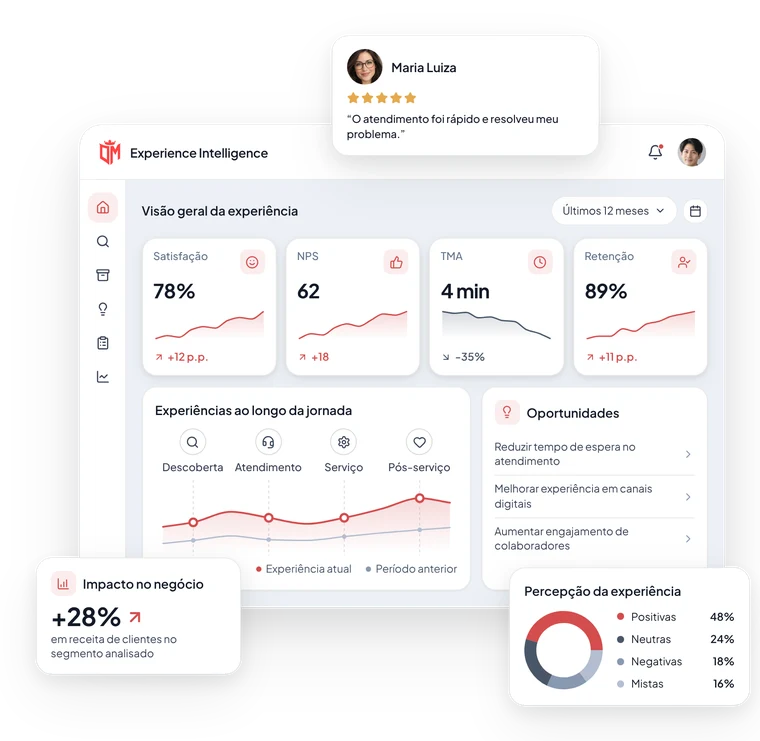
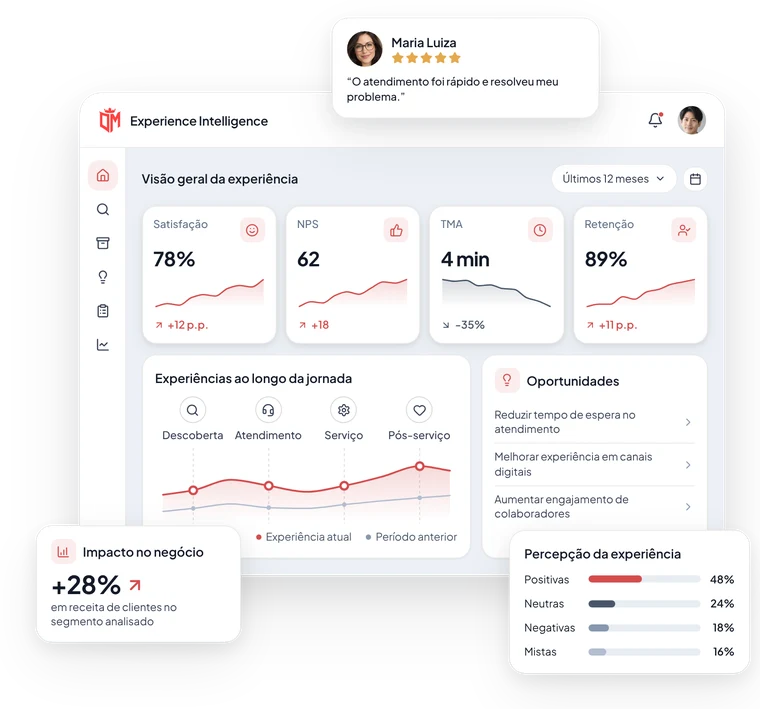
Página do produto: ajustes do hero (painel animado, menu lateral no celular, imagem estática no tablet e celular, Percepção da experiência em barras) (#33)
Claude-Session: https://claude.ai/code/session_01XRPixHnGB2MQpUnvzRpAUm

diff --git a/public/experience-intelligence/estilo.css b/public/experience-intelligence/estilo.css
@@ -61,20 +61,35 @@ a { color: inherit; }
 }
 .nav { display: none; }
 .topo-acoes { display: flex; align-items: center; gap: 12px; }
+/* Celular: Contato fica dentro do menu lateral */
+@media (max-width: 639px) {
+  .topo .btn-contato { display: none; }
+}
 .menu-btn { width: 44px; height: 44px; border: 1px solid var(--border-strong); border-radius: var(--radius); background: var(--card); display: inline-flex; flex-direction: column; align-items: center; justify-content: center; gap: 4px; cursor: pointer; }
 .menu-btn span { width: 18px; height: 2px; background: var(--foreground); border-radius: 2px; }
 
-.nav.aberto {
-  display: flex; flex-direction: column; position: absolute; left: 16px; right: 16px; top: 100%;
-  background: var(--card); border-radius: calc(var(--radius) + 4px); box-shadow: var(--shadow-lg); padding: 8px;
-}
+/* Menu lateral (celular e tablet): abre pela direita, sobre o conteúdo */
+.lateral-fundo { position: fixed; inset: 0; z-index: 40; background: rgb(13 17 25 / .45); }
+.menu-lateral { position: fixed; z-index: 41; top: 0; right: 0; bottom: 0; width: min(320px, 85vw); display: flex; flex-direction: column; gap: 8px; padding: 16px; background: var(--card); box-shadow: var(--shadow-xl); overflow-y: auto; animation: lateral-in .25s ease-out; }
+.lateral-fundo[hidden], .menu-lateral[hidden] { display: none; }
+@keyframes lateral-in { from { transform: translateX(100%); } to { transform: none; } }
+.menu-lateral-topo { display: flex; align-items: center; justify-content: space-between; margin-bottom: 8px; }
+.menu-lateral-logo { height: 36px; width: auto; }
+.menu-fechar { width: 44px; height: 44px; display: inline-flex; align-items: center; justify-content: center; border: 0; border-radius: var(--radius); background: none; color: var(--foreground); font-size: 20px; cursor: pointer; }
+.menu-fechar:hover { background: var(--muted); }
+.menu-lateral nav { display: flex; flex-direction: column; }
+.menu-lateral nav a { text-decoration: none; font-weight: 500; font-size: 1rem; color: var(--graphite-700); padding: 14px 12px; border-radius: var(--radius); }
+.menu-lateral nav a:hover { background: var(--muted); color: var(--foreground); }
+.menu-lateral nav a[aria-current] { color: var(--foreground); font-weight: 600; background: var(--primary-muted); }
+.menu-lateral-contato { margin-top: 8px; justify-content: center; }
+body.lateral-aberta { overflow: hidden; }
 .nav a { text-decoration: none; font-weight: 500; font-size: 0.9375rem; color: var(--graphite-700); padding: 12px 14px; border-radius: var(--radius); }
 .nav a:hover { color: var(--foreground); background: var(--muted); }
 .nav a[aria-current] { color: var(--foreground); font-weight: 600; }
 
 @media (min-width: 1200px) {
   .menu-btn { display: none; }
-  .nav, .nav.aberto { display: flex; flex-direction: row; position: static; background: none; box-shadow: none; padding: 0; gap: 4px; }
+  .nav { display: flex; flex-direction: row; position: static; background: none; box-shadow: none; padding: 0; gap: 4px; }
   .nav a { padding: 8px 12px; position: relative; }
   .nav a:hover { background: none; }
   .nav a[aria-current]::after { content: ""; position: absolute; left: 12px; right: 12px; bottom: 0; height: 2px; border-radius: 2px; background: var(--primary); }
@@ -106,7 +121,7 @@ a { color: inherit; }
 .link-mais:hover { color: var(--crimson-500); }
 
 @media (min-width: 1280px) {
-  .hero { grid-template-columns: minmax(0, 0.8fr) minmax(0, 1fr); align-items: center; gap: 56px; padding: 56px 40px 96px; }
+  .hero { grid-template-columns: minmax(0, 0.8fr) minmax(0, 1fr); align-items: center; gap: 56px; padding: 0 40px 72px; }
 }
 
 /* Fundo do hero: "Gradient Animation" do design system (Backgrounds).
@@ -239,25 +254,22 @@ a { color: inherit; }
 .citacao { display: flex; flex-direction: column; gap: 8px; }
 .citacao-autor { display: flex; align-items: center; gap: 10px; }
 .citacao-autor strong { display: block; font-size: 0.875rem; font-weight: 600; line-height: 1.3; }
+.citacao-autor .estrelas { margin-top: 2px; }
 .avatar-g { width: 40px; height: 40px; flex: none; }
 .citacao-txt { font-size: 0.75rem; font-weight: 500; color: var(--foreground); line-height: 1.45; }
 .estrelas { display: flex; gap: 2px; color: var(--warning); font-size: 14px; }
 .estrelas .ico { fill: currentColor; }
-.voz-corpo { display: flex; align-items: center; gap: 16px; }
-.rosca { width: 88px; height: 88px; flex: none; }
-.rosca circle { fill: none; }
-.rosca .c1 { stroke: var(--chart-1); }
-.rosca .c2 { stroke: var(--chart-2); }
-.rosca .c3 { stroke: var(--chart-3); }
-.rosca .c4 { stroke: var(--chart-4); }
-.voz ul { list-style: none; margin: 0; padding: 0; display: grid; gap: 6px; flex: 1; min-width: 0; }
-.voz li { display: flex; align-items: center; gap: 8px; color: var(--foreground); font-size: 0.75rem; white-space: nowrap; }
-.voz b { margin-left: auto; color: var(--foreground); font-weight: 600; }
-.ponto { width: 8px; height: 8px; border-radius: 50%; flex: none; }
-.ponto.c1 { background: var(--chart-1); }
-.ponto.c2 { background: var(--chart-2); }
-.ponto.c3 { background: var(--chart-3); }
-.ponto.c4 { background: var(--chart-4); }
+/* Percepção da experiência: barras horizontais (padrão Bar Chart do design system: cantos de 4px, cores chart-1 a chart-4) */
+.barras { list-style: none; margin: 0; padding: 0; display: grid; gap: 8px; }
+.barras li { display: grid; grid-template-columns: 64px minmax(0, 1fr) 30px; align-items: center; gap: 8px; font-size: 0.75rem; color: var(--foreground); }
+.barra-rot { white-space: nowrap; }
+.barra-trilho { height: 8px; border-radius: 4px; background: var(--muted); overflow: hidden; }
+.barra { display: block; height: 100%; border-radius: 4px; }
+.barra.c1 { background: var(--chart-1); }
+.barra.c2 { background: var(--chart-2); }
+.barra.c3 { background: var(--chart-3); }
+.barra.c4 { background: var(--chart-4); }
+.barras b { text-align: right; font-weight: 600; }
 .tit-ico { width: 28px; height: 28px; border-radius: 8px; background: var(--primary-muted); color: var(--primary); display: inline-flex; align-items: center; justify-content: center; font-size: 15px; flex: none; }
 .impacto-val { display: flex; align-items: center; gap: 4px; font-weight: 700; font-size: 1.75rem; letter-spacing: -0.025em; line-height: 1.1; color: var(--foreground); }
 .impacto-val .ico { font-size: 22px; stroke-width: 2.5; color: var(--primary); }
@@ -281,7 +293,7 @@ a { color: inherit; }
 
 /* Computador: cartões sobrepostos à janela, como na referência */
 @media (min-width: 1280px) {
-  .hero-visual { padding: 120px 0 110px; }
+  .hero-visual { padding: 104px 0 110px; }
   .flutuante { position: absolute; z-index: 2; }
   .citacao { top: 20px; left: calc(46% - 50px); width: 300px; }
   .impacto { left: -49px; bottom: 35px; width: 230px; }
@@ -292,14 +304,40 @@ a { color: inherit; }
   .citacao { left: calc(34% - 50px); }
 }
 
+/* Animações do painel (design system, Motion: "Slide Up" 0.7s com --ease-snappy na entrada;
+   gráficos desenham da esquerda para a direita em 1.5s com ease, como o padrão do Recharts;
+   cartões flutuantes oscilam em y 0 → -6px → 0 em loop easeInOut). Desligadas com movimento reduzido. */
+@keyframes ds-slide-up { from { opacity: 0; transform: translateY(44px); } to { opacity: 1; transform: none; } }
+@keyframes ds-flutuar { 0%, 100% { transform: translateY(0); } 50% { transform: translateY(-6px); } }
+@keyframes ds-revelar { from { clip-path: inset(-12px 100% -12px -12px); } to { clip-path: inset(-12px -12px -12px -12px); } }
+@keyframes ds-crescer { from { transform: scaleX(0); } to { transform: scaleX(1); } }
+@keyframes ds-surgir { from { opacity: 0; } to { opacity: 1; } }
+.janela { animation: ds-slide-up .7s cubic-bezier(0.16, 1, 0.3, 1) both; }
+.kpi-linha, .grafico { animation: ds-revelar 1.5s ease .5s both; }
+.grafico .pa, .grafico .pp { animation: ds-surgir .4s ease-out 1.8s both; }
+.barra { transform-origin: left center; animation: ds-crescer 1.5s ease 1.1s both; }
+@media (min-width: 1280px) {
+  .flutuante { animation: ds-slide-up .7s cubic-bezier(0.16, 1, 0.3, 1) both, ds-flutuar 5s ease-in-out infinite; }
+  .citacao { animation-delay: .35s, 1.05s; }
+  .impacto { animation-delay: .5s, 1.2s; animation-duration: .7s, 5.5s; }
+  .voz     { animation-delay: .65s, 1.35s; animation-duration: .7s, 6s; }
+}
+
 @media (prefers-reduced-motion: reduce) {
   * { transition: none !important; animation: none !important; }
 }
 
 /* Celular: painel minimalista (sem gráficos nos cards, sem cartões flutuantes; nomes aparecem ao tocar) */
 .avatar-ponto, .ver-todas, .painel-fab { display: none; }
-/* Celular: imagem estática do painel do computador no lugar do painel */
+/* Celular e tablet: imagem estática do painel do computador no lugar do painel */
 .painel-imagem { display: none; width: 100%; height: auto; }
+@media (max-width: 1279px) {
+  .hero-visual { display: none; }
+  .painel-imagem { display: block; max-width: 680px; margin: -4px auto 12px; }
+}
+@media (max-width: 639px) {
+  .painel-imagem { margin: -12px -8px 4px; width: calc(100% + 16px); max-width: none; }
+}
 .painel-fab { position: absolute; z-index: 5; right: 14px; bottom: 14px; width: 48px; height: 48px; align-items: center; justify-content: center; border-radius: 50%; background: var(--primary); color: #fff; font-size: 20px; box-shadow: var(--shadow-lg); cursor: pointer; -webkit-tap-highlight-color: transparent; }
 .menu-aberto .painel-fab { background: #c13e3e; }
 .ver-todas { align-items: center; gap: 4px; margin-top: 4px; padding-top: 8px; border-top: 1px solid var(--border); color: var(--primary); font-size: 0.75rem; font-weight: 600; }
@@ -310,12 +348,10 @@ a { color: inherit; }
 .dica { position: absolute; z-index: 3; transform: translate(-50%, calc(-100% - 8px)); padding: 4px 8px; border-radius: 6px; background: var(--graphite-900); color: #fff; font-size: 0.75rem; font-weight: 500; white-space: nowrap; pointer-events: none; }
 .dica[hidden] { display: none; }
 @media (max-width: 639px) {
-  .hero-visual { display: none; }
   /* Conteúdo do hero centralizado */
   .hero-texto { text-align: center; }
   .hero-texto .lead { margin-left: auto; margin-right: auto; }
   .hero-acoes { justify-content: center; }
-  .painel-imagem { display: block; margin: -12px -8px 4px; width: calc(100% + 16px); max-width: none; }
   .sino, .cab-resto, .filtro-sel, .kpi-linha, .kpi-var, .etapa-nome, .legenda, .flutuante { display: none; }
   /* Cards de visão geral mais baixos */
   .kpi { padding: 10px; }

diff --git a/public/experience-intelligence/index.html b/public/experience-intelligence/index.html
@@ -33,12 +33,30 @@
   </nav>
   <div class="topo-acoes">
     <a class="btn-contato" href="#contato">Contato</a>
-    <button class="menu-btn" type="button" aria-expanded="false" aria-controls="nav" aria-label="Abrir menu">
+    <button class="menu-btn" type="button" aria-expanded="false" aria-controls="menu-lateral" aria-label="Abrir menu">
       <span></span><span></span><span></span>
     </button>
   </div>
 </header>
 </div>
+
+<!-- Menu do celular e tablet: barra lateral sobre o conteúdo -->
+<div class="lateral-fundo" data-fechar-menu hidden></div>
+<aside class="menu-lateral" id="menu-lateral" aria-label="Menu" hidden>
+  <div class="menu-lateral-topo">
+    <img src="/favicon-dm.png" alt="" class="menu-lateral-logo">
+    <button class="menu-fechar" type="button" data-fechar-menu aria-label="Fechar menu"><svg class="ico" viewBox="0 0 24 24" aria-hidden="true" focusable="false"><path d="M18 6 6 18"/><path d="m6 6 12 12"/></svg></button>
+  </div>
+  <nav aria-label="Seções da página">
+    <a href="#como-funciona">Como funciona</a>
+    <a href="#solucao" aria-current="true">Solução</a>
+    <a href="#aplicacoes">Aplicações</a>
+    <a href="#diferenciais">Diferenciais</a>
+    <a href="#planos">Planos</a>
+    <a href="#faq">FAQ</a>
+  </nav>
+  <a class="btn-contato menu-lateral-contato" href="#contato">Contato</a>
+</aside>
 
 <main id="conteudo">
   <section class="hero" id="solucao" aria-labelledby="hero-titulo">
@@ -47,7 +65,7 @@
     <div class="hero-texto">
       <p class="selo"><span class="selo-ponto" aria-hidden="true"></span>DM | Experience Intelligence</p>
       <h1 id="hero-titulo">Transforme a experiência das pessoas em <span class="destaque">ativo estratégico</span> para o seu negócio.</h1>
-      <img class="painel-imagem" src="/experience-intelligence/painel-celular.webp" width="760" height="741" loading="lazy" alt="Exemplo demonstrativo do painel: visão geral da experiência com satisfação, NPS, TMA e retenção, experiências ao longo da jornada, oportunidades, avaliação de cliente, impacto no negócio e percepção da experiência.">
+      <img class="painel-imagem" src="/experience-intelligence/painel-celular.webp" width="760" height="709" loading="lazy" alt="Exemplo demonstrativo do painel: visão geral da experiência com satisfação, NPS, TMA e retenção, experiências ao longo da jornada, oportunidades, avaliação de cliente, impacto no negócio e percepção da experiência.">
       <p class="lead">As experiências de clientes, consumidores, pacientes, usuários e colaboradores impactam a percepção de valor, a eficiência operacional e os resultados do negócio.</p>
       <p class="lead">A <strong>DM | Experience Intelligence</strong> transforma essas experiências em inteligência estratégica para identificar oportunidades, orientar decisões e impulsionar a melhoria contínua.</p>
       <div class="hero-acoes">
@@ -147,9 +165,8 @@
       <div class="flutuante citacao" aria-hidden="true">
         <span class="citacao-autor">
           <img class="avatar avatar-g" src="/experience-intelligence/foto-citacao.webp" alt="" width="40" height="40">
-          <strong>Maria Luiza</strong>
+          <span><strong>Maria Luiza</strong><span class="estrelas"><svg class="ico" viewBox="0 0 24 24" aria-hidden="true" focusable="false"><path d="M11.525 2.295a.53.53 0 0 1 .95 0l2.31 4.679a2.123 2.123 0 0 0 1.595 1.16l5.166.756a.53.53 0 0 1 .294.904l-3.736 3.638a2.123 2.123 0 0 0-.611 1.878l.882 5.14a.53.53 0 0 1-.771.56l-4.618-2.428a2.122 2.122 0 0 0-1.973 0L6.396 21.01a.53.53 0 0 1-.77-.56l.881-5.139a2.122 2.122 0 0 0-.611-1.879L2.16 9.795a.53.53 0 0 1 .294-.906l5.165-.755a2.122 2.122 0 0 0 1.597-1.16z"/></svg><svg class="ico" viewBox="0 0 24 24" aria-hidden="true" focusable="false"><path d="M11.525 2.295a.53.53 0 0 1 .95 0l2.31 4.679a2.123 2.123 0 0 0 1.595 1.16l5.166.756a.53.53 0 0 1 .294.904l-3.736 3.638a2.123 2.123 0 0 0-.611 1.878l.882 5.14a.53.53 0 0 1-.771.56l-4.618-2.428a2.122 2.122 0 0 0-1.973 0L6.396 21.01a.53.53 0 0 1-.77-.56l.881-5.139a2.122 2.122 0 0 0-.611-1.879L2.16 9.795a.53.53 0 0 1 .294-.906l5.165-.755a2.122 2.122 0 0 0 1.597-1.16z"/></svg><svg class="ico" viewBox="0 0 24 24" aria-hidden="true" focusable="false"><path d="M11.525 2.295a.53.53 0 0 1 .95 0l2.31 4.679a2.123 2.123 0 0 0 1.595 1.16l5.166.756a.53.53 0 0 1 .294.904l-3.736 3.638a2.123 2.123 0 0 0-.611 1.878l.882 5.14a.53.53 0 0 1-.771.56l-4.618-2.428a2.122 2.122 0 0 0-1.973 0L6.396 21.01a.53.53 0 0 1-.77-.56l.881-5.139a2.122 2.122 0 0 0-.611-1.879L2.16 9.795a.53.53 0 0 1 .294-.906l5.165-.755a2.122 2.122 0 0 0 1.597-1.16z"/></svg><svg class="ico" viewBox="0 0 24 24" aria-hidden="true" focusable="false"><path d="M11.525 2.295a.53.53 0 0 1 .95 0l2.31 4.679a2.123 2.123 0 0 0 1.595 1.16l5.166.756a.53.53 0 0 1 .294.904l-3.736 3.638a2.123 2.123 0 0 0-.611 1.878l.882 5.14a.53.53 0 0 1-.771.56l-4.618-2.428a2.122 2.122 0 0 0-1.973 0L6.396 21.01a.53.53 0 0 1-.77-.56l.881-5.139a2.122 2.122 0 0 0-.611-1.879L2.16 9.795a.53.53 0 0 1 .294-.906l5.165-.755a2.122 2.122 0 0 0 1.597-1.16z"/></svg><svg class="ico" viewBox="0 0 24 24" aria-hidden="true" focusable="false"><path d="M11.525 2.295a.53.53 0 0 1 .95 0l2.31 4.679a2.123 2.123 0 0 0 1.595 1.16l5.166.756a.53.53 0 0 1 .294.904l-3.736 3.638a2.123 2.123 0 0 0-.611 1.878l.882 5.14a.53.53 0 0 1-.771.56l-4.618-2.428a2.122 2.122 0 0 0-1.973 0L6.396 21.01a.53.53 0 0 1-.77-.56l.881-5.139a2.122 2.122 0 0 0-.611-1.879L2.16 9.795a.53.53 0 0 1 .294-.906l5.165-.755a2.122 2.122 0 0 0 1.597-1.16z"/></svg></span></span>
         </span>
-        <span class="estrelas"><svg class="ico" viewBox="0 0 24 24" aria-hidden="true" focusable="false"><path d="M11.525 2.295a.53.53 0 0 1 .95 0l2.31 4.679a2.123 2.123 0 0 0 1.595 1.16l5.166.756a.53.53 0 0 1 .294.904l-3.736 3.638a2.123 2.123 0 0 0-.611 1.878l.882 5.14a.53.53 0 0 1-.771.56l-4.618-2.428a2.122 2.122 0 0 0-1.973 0L6.396 21.01a.53.53 0 0 1-.77-.56l.881-5.139a2.122 2.122 0 0 0-.611-1.879L2.16 9.795a.53.53 0 0 1 .294-.906l5.165-.755a2.122 2.122 0 0 0 1.597-1.16z"/></svg><svg class="ico" viewBox="0 0 24 24" aria-hidden="true" focusable="false"><path d="M11.525 2.295a.53.53 0 0 1 .95 0l2.31 4.679a2.123 2.123 0 0 0 1.595 1.16l5.166.756a.53.53 0 0 1 .294.904l-3.736 3.638a2.123 2.123 0 0 0-.611 1.878l.882 5.14a.53.53 0 0 1-.771.56l-4.618-2.428a2.122 2.122 0 0 0-1.973 0L6.396 21.01a.53.53 0 0 1-.77-.56l.881-5.139a2.122 2.122 0 0 0-.611-1.879L2.16 9.795a.53.53 0 0 1 .294-.906l5.165-.755a2.122 2.122 0 0 0 1.597-1.16z"/></svg><svg class="ico" viewBox="0 0 24 24" aria-hidden="true" focusable="false"><path d="M11.525 2.295a.53.53 0 0 1 .95 0l2.31 4.679a2.123 2.123 0 0 0 1.595 1.16l5.166.756a.53.53 0 0 1 .294.904l-3.736 3.638a2.123 2.123 0 0 0-.611 1.878l.882 5.14a.53.53 0 0 1-.771.56l-4.618-2.428a2.122 2.122 0 0 0-1.973 0L6.396 21.01a.53.53 0 0 1-.77-.56l.881-5.139a2.122 2.122 0 0 0-.611-1.879L2.16 9.795a.53.53 0 0 1 .294-.906l5.165-.755a2.122 2.122 0 0 0 1.597-1.16z"/></svg><svg class="ico" viewBox="0 0 24 24" aria-hidden="true" focusable="false"><path d="M11.525 2.295a.53.53 0 0 1 .95 0l2.31 4.679a2.123 2.123 0 0 0 1.595 1.16l5.166.756a.53.53 0 0 1 .294.904l-3.736 3.638a2.123 2.123 0 0 0-.611 1.878l.882 5.14a.53.53 0 0 1-.771.56l-4.618-2.428a2.122 2.122 0 0 0-1.973 0L6.396 21.01a.53.53 0 0 1-.77-.56l.881-5.139a2.122 2.122 0 0 0-.611-1.879L2.16 9.795a.53.53 0 0 1 .294-.906l5.165-.755a2.122 2.122 0 0 0 1.597-1.16z"/></svg><svg class="ico" viewBox="0 0 24 24" aria-hidden="true" focusable="false"><path d="M11.525 2.295a.53.53 0 0 1 .95 0l2.31 4.679a2.123 2.123 0 0 0 1.595 1.16l5.166.756a.53.53 0 0 1 .294.904l-3.736 3.638a2.123 2.123 0 0 0-.611 1.878l.882 5.14a.53.53 0 0 1-.771.56l-4.618-2.428a2.122 2.122 0 0 0-1.973 0L6.396 21.01a.53.53 0 0 1-.77-.56l.881-5.139a2.122 2.122 0 0 0-.611-1.879L2.16 9.795a.53.53 0 0 1 .294-.906l5.165-.755a2.122 2.122 0 0 0 1.597-1.16z"/></svg></span>
         <span class="citacao-txt">“O atendimento foi rápido e resolveu meu problema.”</span>
       </div>
 
@@ -161,15 +178,12 @@
 
       <div class="flutuante voz" aria-hidden="true">
         <strong>Percepção da experiência</strong>
-        <div class="voz-corpo">
-          <svg class="rosca" viewBox="0 0 88 88" aria-hidden="true"><g transform="matrix(1 0 0 -1 0 88)"><circle class="c1" cx="44" cy="44" r="37.28" stroke-width="13.44" stroke-dasharray="106.06 128.16" stroke-dashoffset="0.00"/><circle class="c2" cx="44" cy="44" r="37.28" stroke-width="13.44" stroke-dasharray="53.03 181.19" stroke-dashoffset="-106.06"/><circle class="c3" cx="44" cy="44" r="37.28" stroke-width="13.44" stroke-dasharray="39.77 194.45" stroke-dashoffset="-159.09"/><circle class="c4" cx="44" cy="44" r="37.28" stroke-width="13.44" stroke-dasharray="35.35 198.87" stroke-dashoffset="-198.87"/></g></svg>
-          <ul>
-            <li><span class="ponto c1"></span>Positivas<b>48%</b></li>
-            <li><span class="ponto c2"></span>Neutras<b>24%</b></li>
-            <li><span class="ponto c3"></span>Negativas<b>18%</b></li>
-            <li><span class="ponto c4"></span>Mistas<b>16%</b></li>
-          </ul>
-        </div>
+        <ul class="barras">
+          <li><span class="barra-rot">Positivas</span><span class="barra-trilho"><span class="barra c1" style="width:48%"></span></span><b>48%</b></li>
+          <li><span class="barra-rot">Neutras</span><span class="barra-trilho"><span class="barra c2" style="width:24%"></span></span><b>24%</b></li>
+          <li><span class="barra-rot">Negativas</span><span class="barra-trilho"><span class="barra c3" style="width:18%"></span></span><b>18%</b></li>
+          <li><span class="barra-rot">Mistas</span><span class="barra-trilho"><span class="barra c4" style="width:16%"></span></span><b>16%</b></li>
+        </ul>
       </div>
     </figure>
   </section>

diff --git a/public/experience-intelligence/pagina.js b/public/experience-intelligence/pagina.js
@@ -1,21 +1,26 @@
-// Menu do cabeçalho no celular.
+// Menu do celular e tablet: barra lateral sobre o conteúdo.
 (function () {
   var botao = document.querySelector('.menu-btn');
-  var nav = document.getElementById('nav');
-  if (!botao || !nav) return;
-  function fechar() {
-    nav.classList.remove('aberto');
+  var menu = document.getElementById('menu-lateral');
+  var fundo = document.querySelector('.lateral-fundo');
+  if (!botao || !menu || !fundo) return;
+  function fechar(devolverFoco) {
+    menu.hidden = true; fundo.hidden = true;
+    document.body.classList.remove('lateral-aberta');
     botao.setAttribute('aria-expanded', 'false');
-    botao.setAttribute('aria-label', 'Abrir menu');
+    if (devolverFoco) botao.focus();
   }
-  botao.addEventListener('click', function () {
-    var abrir = !nav.classList.contains('aberto');
-    nav.classList.toggle('aberto', abrir);
-    botao.setAttribute('aria-expanded', String(abrir));
-    botao.setAttribute('aria-label', abrir ? 'Fechar menu' : 'Abrir menu');
-  });
-  nav.addEventListener('click', function (e) { if (e.target.closest('a')) fechar(); });
-  document.addEventListener('keydown', function (e) { if (e.key === 'Escape' && nav.classList.contains('aberto')) { fechar(); botao.focus(); } });
+  function abrir() {
+    menu.hidden = false; fundo.hidden = false;
+    document.body.classList.add('lateral-aberta');
+    botao.setAttribute('aria-expanded', 'true');
+    menu.querySelector('.menu-fechar').focus();
+  }
+  botao.addEventListener('click', abrir);
+  document.querySelectorAll('[data-fechar-menu]').forEach(function (el) { el.addEventListener('click', function () { fechar(true); }); });
+  menu.addEventListener('click', function (e) { if (e.target.closest('a')) fechar(false); });
+  document.addEventListener('keydown', function (e) { if (e.key === 'Escape' && !menu.hidden) fechar(true); });
+  window.matchMedia('(min-width: 1200px)').addEventListener('change', function (m) { if (m.matches) fechar(false); });
 })();
 
 // Cabeçalho ganha fundo ao rolar (igual à página inicial).
